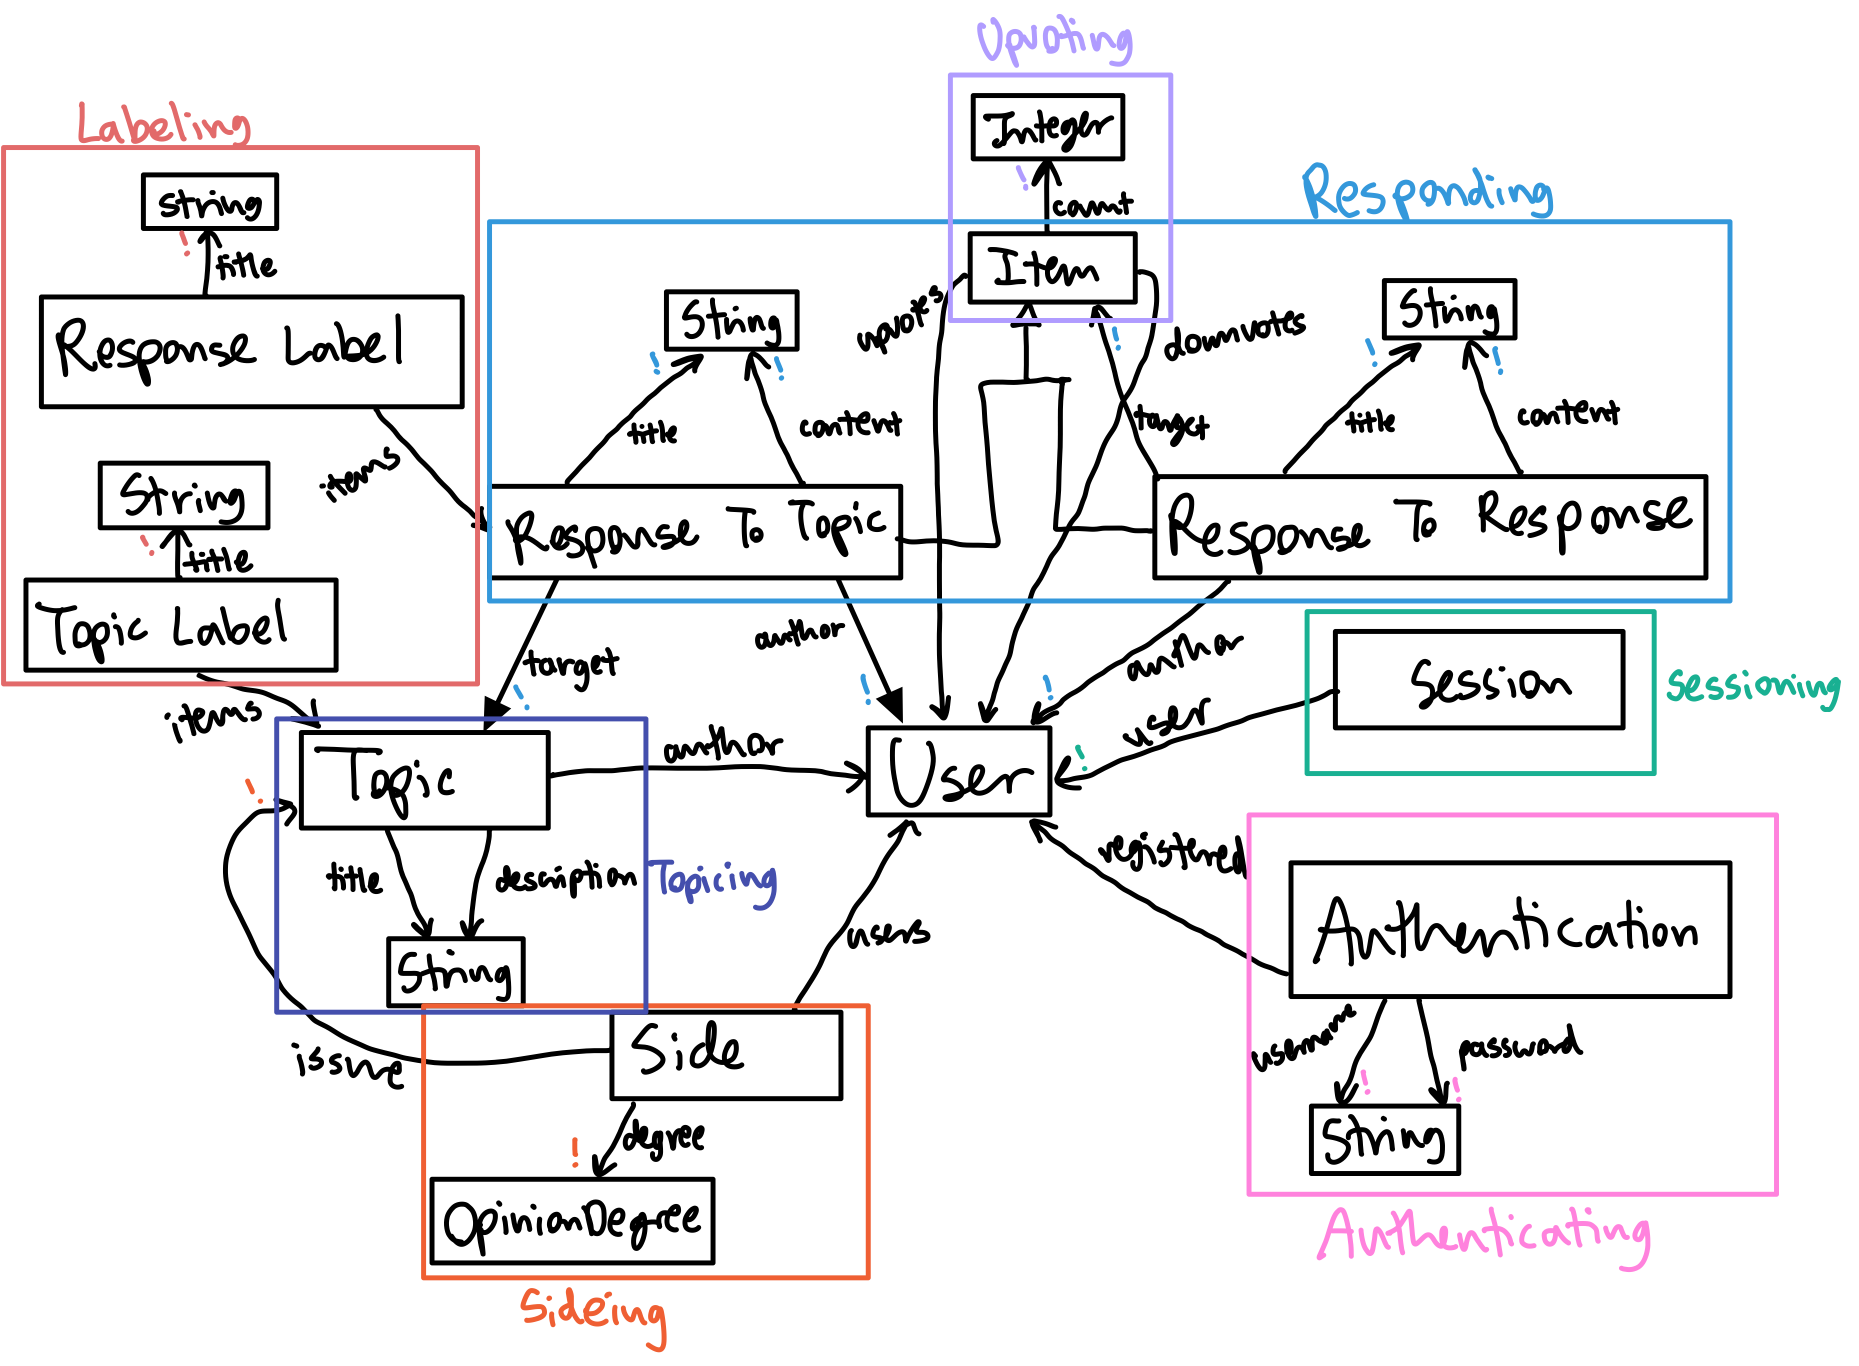
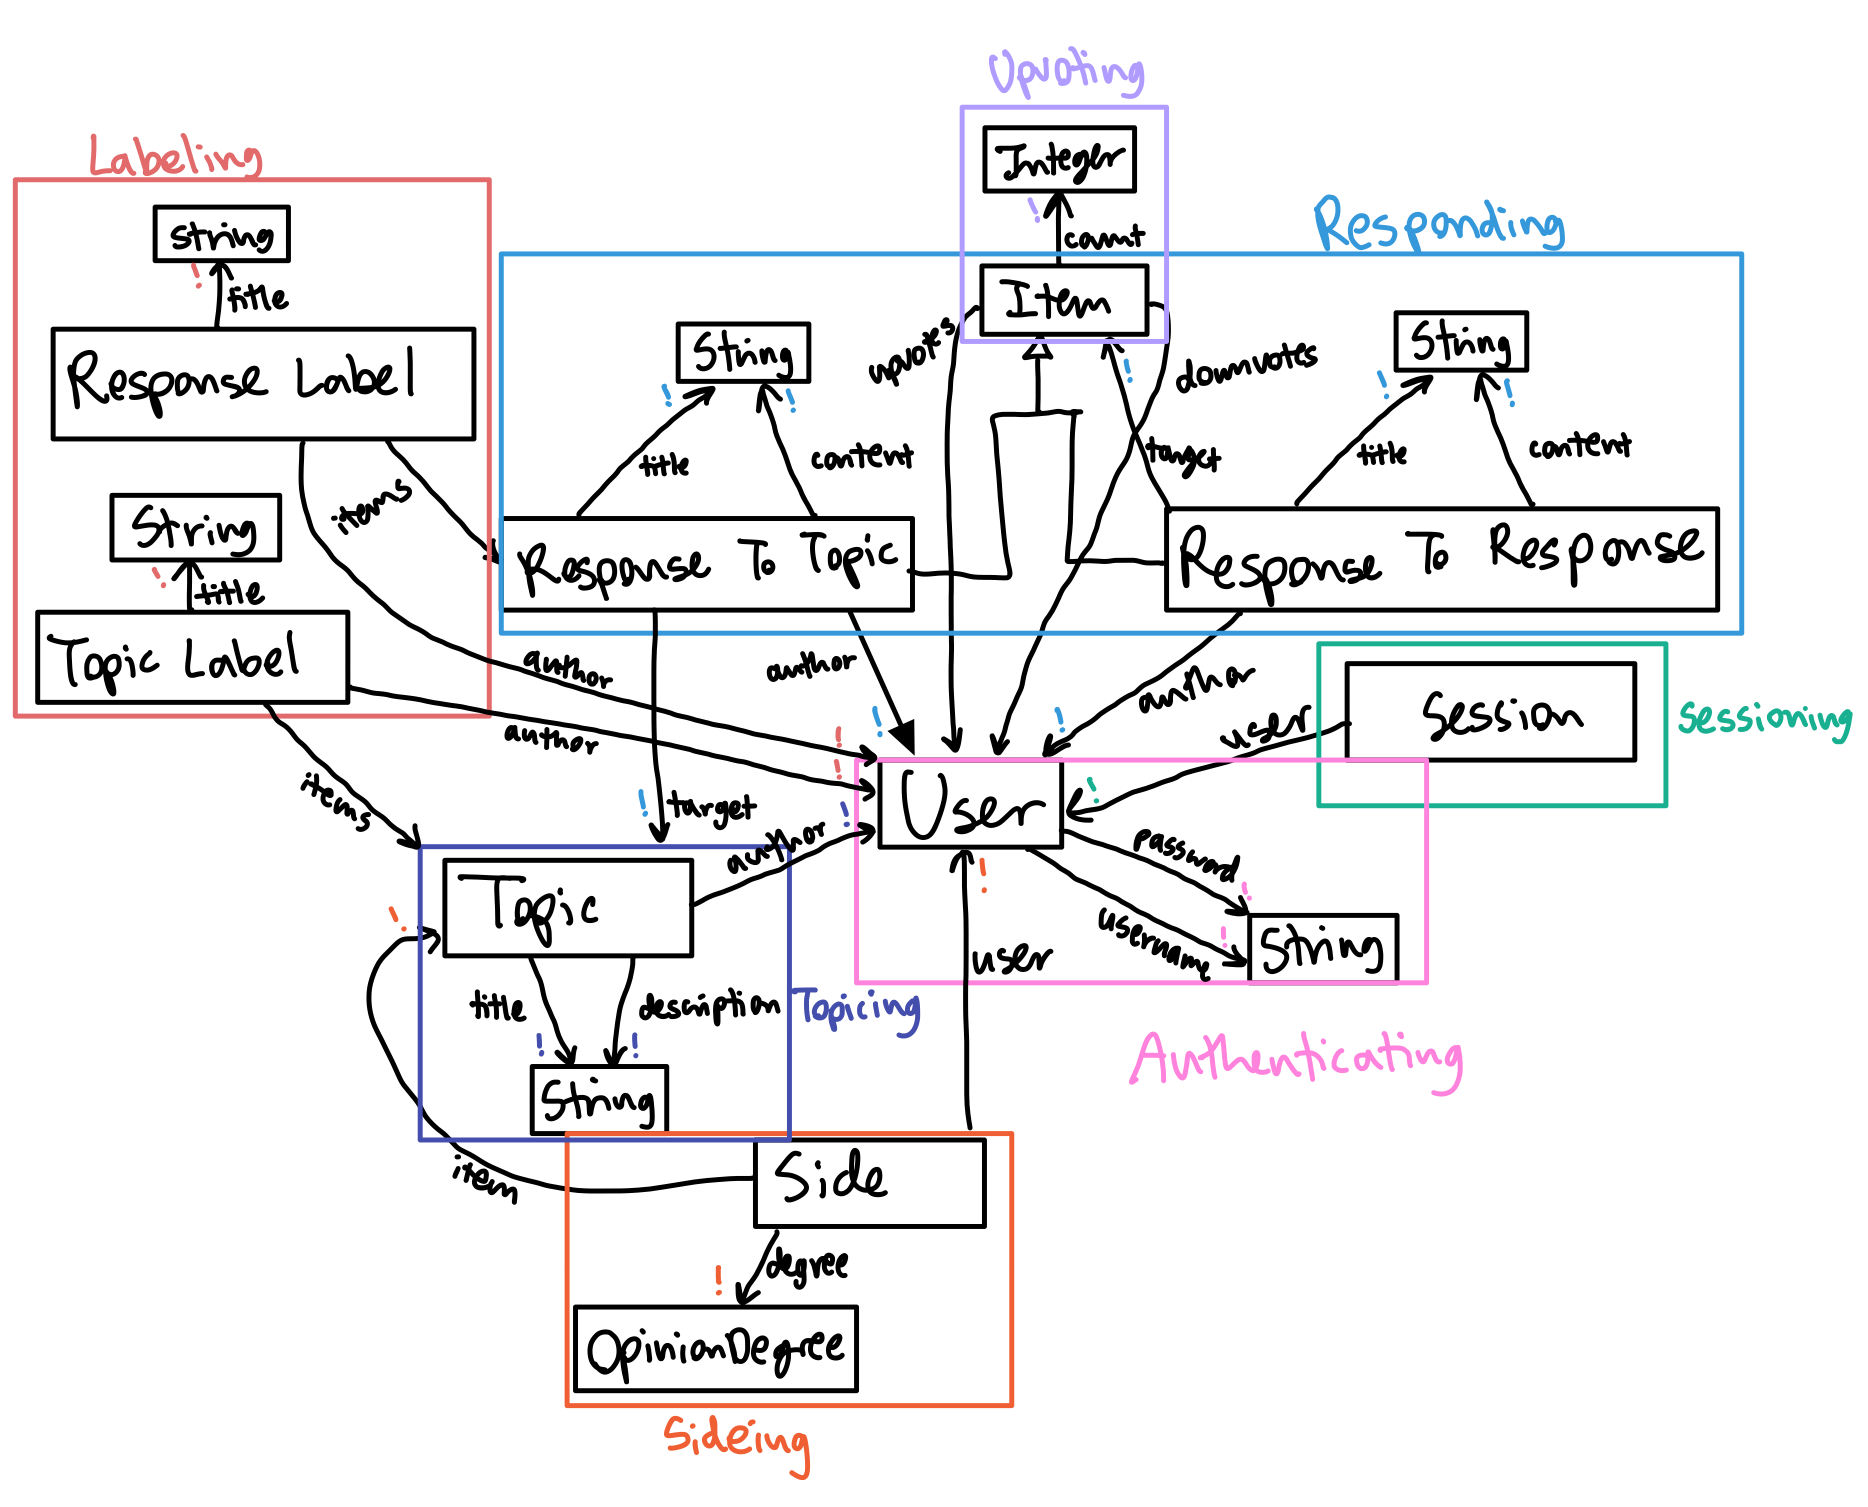
Finished A4

Changed region(s): [[0.0, 0.0, 0.9984, 0.9839]]

diff --git a/docs/assignments/assignment4.md b/docs/assignments/assignment4.md
@@ -4,7 +4,7 @@ layout: doc
 ---
 
 # Assignment 4: Backend Design
-#### Collaboration Partners: Tiana Jiang
+#### Collaboration Partners: Tiana Jiang, ChatGPT
 ## Abstract Data Models
 **concept:** Responding [Author, Item]
 
@@ -70,7 +70,7 @@ user: active -> one User
 
 ---
 
-**concept:** Sideing [Issue, User]
+**concept:** Sideing [Item, User]
 
 **state:**
 
@@ -78,9 +78,9 @@ sides: set Side
 
 degree: sides -> one OpinionDegree //*8 possible opinion degrees (strongly disagree, disagree, slightly disagree, neutral, slightly agree, agree, strongly agree, undecided) for every issue*
 
-issue: sides -> one Issue
+item: sides -> one Item
 
-users: sides -> set User
+user: sides -> one User
 
 ---
 
@@ -89,6 +89,8 @@ users: sides -> set User
 **state:**
 
 labels: set Label
+
+author: labels -> one User
 
 title: labels -> one String
 
@@ -119,7 +121,6 @@ app  **POV**
 - include Labeling [RespondingToTopic.Response] as ResponseLabeling
 - include Labeling [Topicing.Topic] as TopicLabeling
 - include Upvoting [RespondingToTopic.Response + RespondingToResponse.Response, Authenticating.User]
-<!-- - include Upvoting [Topicing.Topic, Authenticating.User] as TopicUpvoting -->
 
 ## Backend Code
 
@@ -129,20 +130,86 @@ app  **POV**
 
 [Link to deployed site](https://6104-backend.vercel.app)
 
+## Design Reflection
 
-<!-- - whether to have undecided separately on sideing concept
-- sideing concept -> 8 sides for each topic -> strongly disagree, disagree, slightly disagree, neutral, slightly agree, agree, strongly agree, undecided
-    - including undecided
+When I first designed the degree-of-opinion scale, I set it from -10 to 10 to capture the intensity of users' opinions. But with 21 options, responses would get spread too thinly, especially on topics with fewer responses. To simplify, I switched to a set of eight categories: Strongly Disagree, Disagree, Slightly Disagree, Neutral, Slightly Agree, Agree, Strongly Agree, and Undecided. This still lets users have a range but keeps things manageable. I separated “Neutral” from “Undecided” since they mean different things: “Neutral” means indifferent, while “Undecided” reflects that someone hasn’t fully formed an opinion yet. This distinction allows users to show they’re still considering the issue, rather than simply not having a strong view. Futhermore, I decided to let users switch back to “Undecided” if they want, encouraging open-minded thinking.
 
+When I got to implementing upvotes, I debated whether to allow upvoting on topics or just responses. Upvoting topics seemed like it might push only popular ones to the top, which could narrow down the diversity of views. Instead, I’m sorting topics by engagement, which showcases a variety of active topics without being heavily influenced by popularity. Still, users can upvote responses and responses-to-responses, which gives more detail to what people support and feel strongly about.
 
+For labels, I originally thought about letting everyone create their own tags for topics and responses, but this would make it harder to filter out duplicates or overlapping terms. So now, users can use existing labels but can’t create duplicates, which keeps everything organized and easy to navigate. While it might feel restrictive, it ensures a clean, reliable system for tagging and filtering content.
+
+## Collaboration Statement
+
+I used ChatGPT to help me find what functions to use when reading from MongoDB to filter for sum and various fields. I also used it help my words flow better in the design reflection.
+
+<!-- 
 - response to topic
 - response to response (two separate instances?)
 - upvoting topics?
-- responses have targets, not responsesToResponses
+    - not allowing users to upvote topics, instead do sorting based on engagement
 - description for topics? editing for topics? deleting for topics?
-- nvmmmmm: need a get method for responses to responses for users? 
+    - descriptions added for topics
+    - not allowed to edit topics, so it can't just change
+    - can delete topics
+- users can go back to undecided after they decide
+- no editing for labels or topics
+- can only label topics and responses to topics
+- can users go back to undecided after they decide? -> yes
+- labels must be unique so people use other people's labels
+- no editing for labels or topics
+- can only label topics and responses to topics
 
-- can only create tag when adding it to post? or just create tag?
+- can only create tag when adding it to post? or just create tag? (chose can just create tag)
 
 - data model diagram
     - can i reuse item for the target in responding concept and in upvotiing concept![alt text](<Note Oct 2, 2024.png>) -->
+
+
+
+<!-- todo:
+- replace all errors with descriptive errors
+- look for all places we want errors?
+- check for validation like whether the person updating is the actual user making the change or deleting
+- responses.ts -> reformat topics to be replaced with title?
+    - copy format of responsesToTopic
+    - think about why or when this would be helpful
+- all get stuff should be formated
+- repeated errors -> custom error
+- add messages to all returns in routes
+time:
+- response formatting for response labels
+- not be able to edit responses?? (said in design tradeoff for A3)
+
+- do age for Authenticating?? -->
+
+
+<!-- - if validator is related to the actual action, then put it in the concept (like validating that the user given is equal to author is not inside concpet??) -->
+
+<!-- questions: -->
+<!-- - diagram on how item is formatted?
+- @Router.patch("/label/:label/add/response/:id")
+    - throwing error for labeling a response that response doesn't exist but that response could be a response to a response, which could exist (how to customize errors) -> fine
+- @Router.get("/topics/sort")
+    - lots of casework? :(
+    - issue with not showing topics that have no responses
+    - handle inside of concept
+-   @Router.get("/responses/topic/:topic/degree/:degree")
+    - too much logic?
+    - another generic error (one down) -> fine
+- for errors, should i say that response [id] does not exist or the title?? bc title is not unique
+    - for own testing
+- typedoc comments??? -->
+
+<!-- - delete responses if delete topic????????????
+- make things refer to topicid????????????????
+
+tests:
+- when i create a side for a user for a topic, cannot create another one
+- for all custom errors!!
+- entering nothing for creating things
+- updating or deleting when you're not the author for responses, topics, labels, etc.
+- upvoting things with multiple users
+
+- get responses logic
+
+errors: -->
